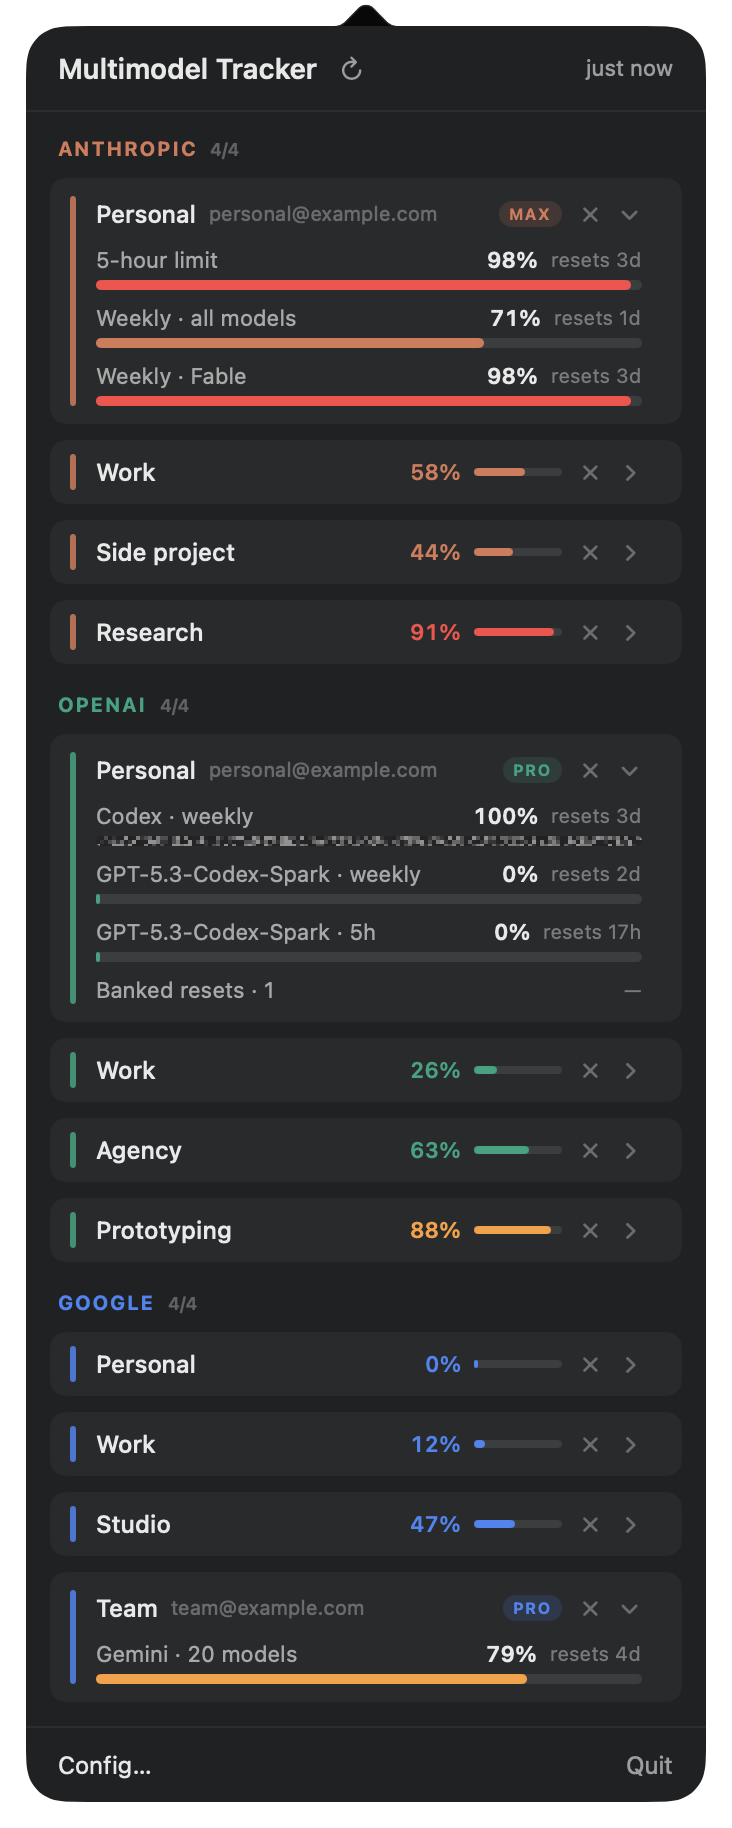
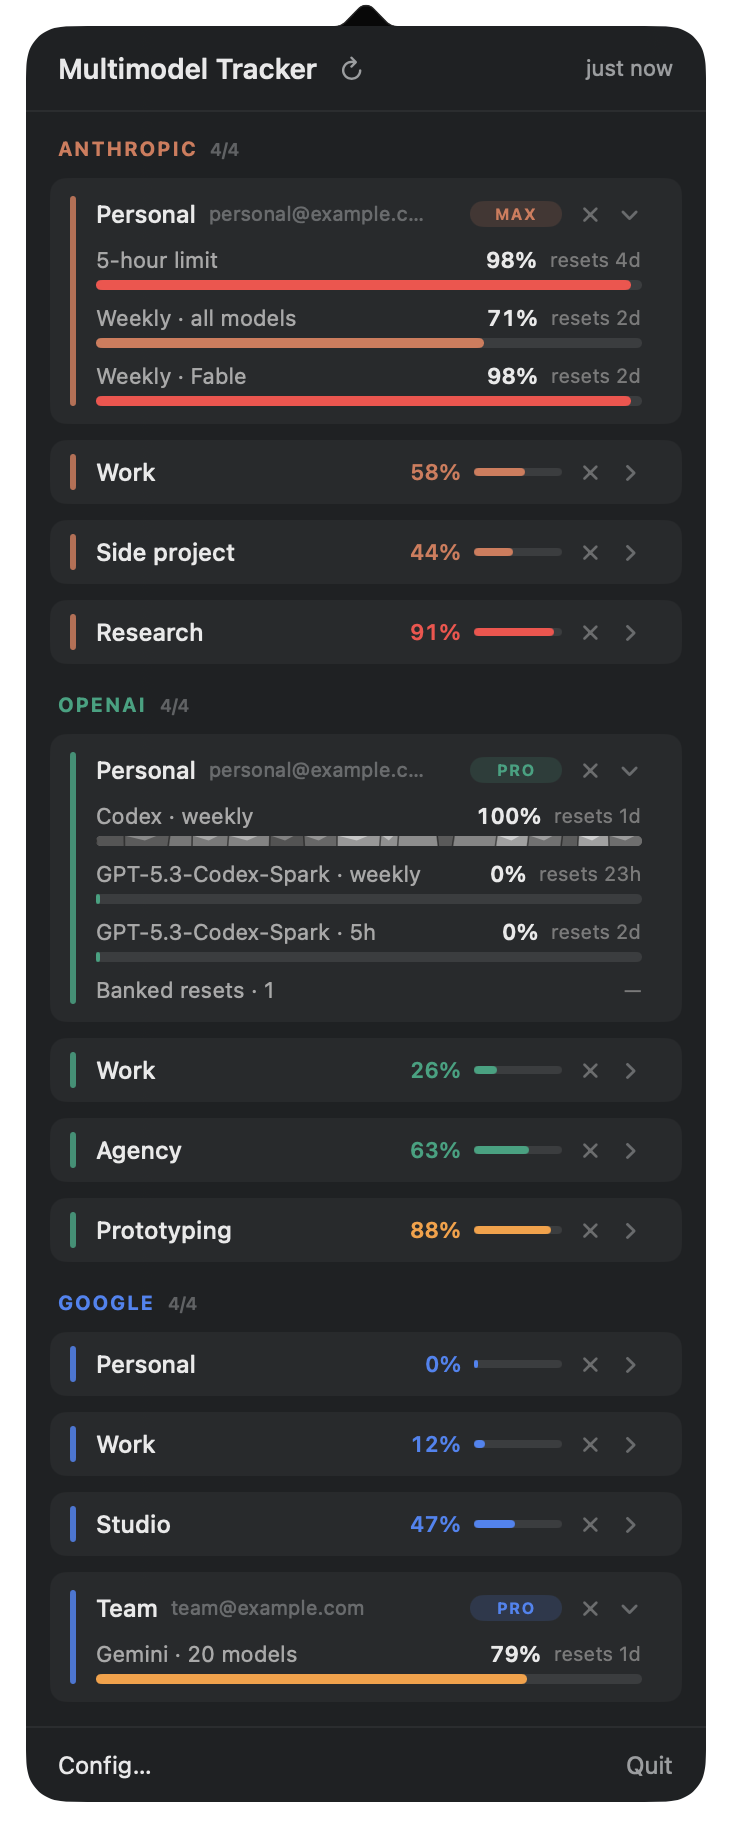
The imported Google row names its account, and tier chips share a width
The AGY-imported row read "Antigravity / Antigravity" because
Antigravity's keychain payload carries no id token to take a name from.
It does, however, yield a live access token, and that token turns out to
carry the email scope — so the account can simply be asked for:
oauth2/v3/userinfo now names the row when no id token is available.
Verified live: the imported row reads its real address instead of a
second copy of the product name. Cached per account, failures included,
so a token without the scope is not re-asked on every poll.

Tier chips now share one width, so PRO and FREE begin at the same x down
the column rather than each hugging its own text. With the chips already
right-aligned, equal widths line up both edges.

Changed region(s): [[0.1503, 0.4054, 0.8716, 0.5301], [0.6311, 0.0935, 0.8415, 0.1871], [0.6311, 0.8731, 0.7514, 0.9354]]

diff --git a/Sources/MultimodelTracker/Providers/GoogleAdapter.swift b/Sources/MultimodelTracker/Providers/GoogleAdapter.swift
@@ -225,6 +225,29 @@ struct GoogleAdapterImpl: UsageAdapter {
         }
     }
 
+    /// Who the access token belongs to, asked of Google directly. The
+    /// imported row has no id token to read a name out of (Antigravity's
+    /// keychain payload carries none), but it does have a live access
+    /// token — and if that token carries the email scope, userinfo will
+    /// name the account. Cached per account: one call per launch, and a
+    /// failure is cached too so a token without the scope isn't re-asked
+    /// on every poll.
+    private static var emailCache: [UUID: String?] = [:]
+
+    static func userInfoEmail(accessToken: String, id: UUID) async -> String? {
+        if let hit = emailCache[id] { return hit }
+        var req = URLRequest(url: URL(string: "https://www.googleapis.com/oauth2/v3/userinfo")!)
+        req.setValue("Bearer \(accessToken)", forHTTPHeaderField: "Authorization")
+        var found: String?
+        if let (d, r) = try? await URLSession.shared.data(for: req),
+           (r as? HTTPURLResponse)?.statusCode == 200,
+           let o = try? JSONSerialization.jsonObject(with: d) as? [String: Any] {
+            found = o["email"] as? String
+        }
+        emailCache[id] = found
+        return found
+    }
+
     /// The `email` claim of an OIDC id token, so a Google row names its
     /// account like every other row does.
     static func emailFromJWT(_ token: String) -> String? {
@@ -439,7 +462,14 @@ struct GoogleAdapterImpl: UsageAdapter {
             var usage = try Self.parseModels(root)
             usage.plan = Self.cachedTier[id]
             usage.authSource = source
-            usage.accountEmail = idToken.flatMap(Self.emailFromJWT)
+            var email = idToken.flatMap(Self.emailFromJWT)
+            if email == nil { email = await Self.userInfoEmail(accessToken: token, id: id) }
+            usage.accountEmail = email
+            if ProcessInfo.processInfo.environment["MMT_DEBUG"] != nil {
+                FileHandle.standardError.write(
+                    "google email for \(id.uuidString.prefix(8)): \(usage.accountEmail ?? "nil")\n"
+                        .data(using: .utf8)!)
+            }
             Self.lastGood[id] = (Date(), usage)
             return usage
         } catch {

diff --git a/Sources/MultimodelTracker/UI/PopoverView.swift b/Sources/MultimodelTracker/UI/PopoverView.swift
@@ -552,10 +552,14 @@ struct AccountCard: View {
                         // accent. Nothing else belongs in this slot.
                         Text(plan.uppercased())
                             .font(.system(size: 8, weight: .bold)).tracking(0.5)
+                            .lineLimit(1).fixedSize()
                             .padding(.horizontal, 5).padding(.vertical, 1.5)
+                            // One width for every tier, so PRO and FREE start
+                            // at the same x down the column instead of each
+                            // hugging its own text.
+                            .frame(minWidth: 46)
                             .background(accent.opacity(0.16), in: Capsule())
                             .foregroundStyle(accent)
-                            .fixedSize()
                     }
                     // A usage tracker that quietly shows old numbers is worse
                     // than one that shows nothing: a stalled refresh once left
